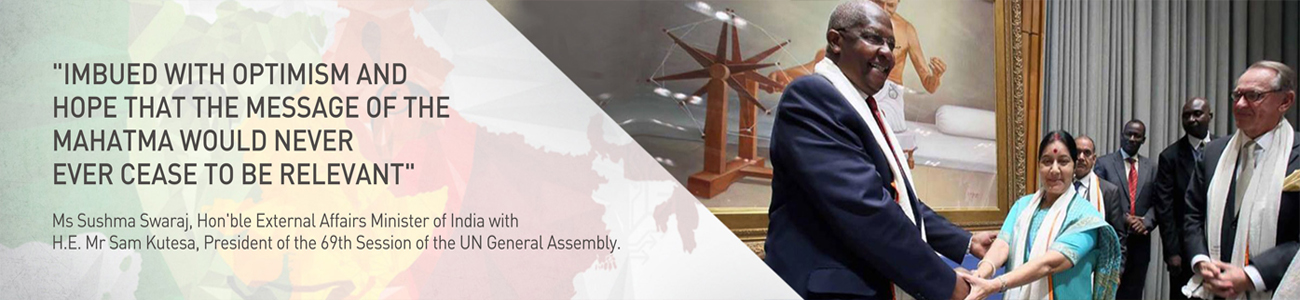
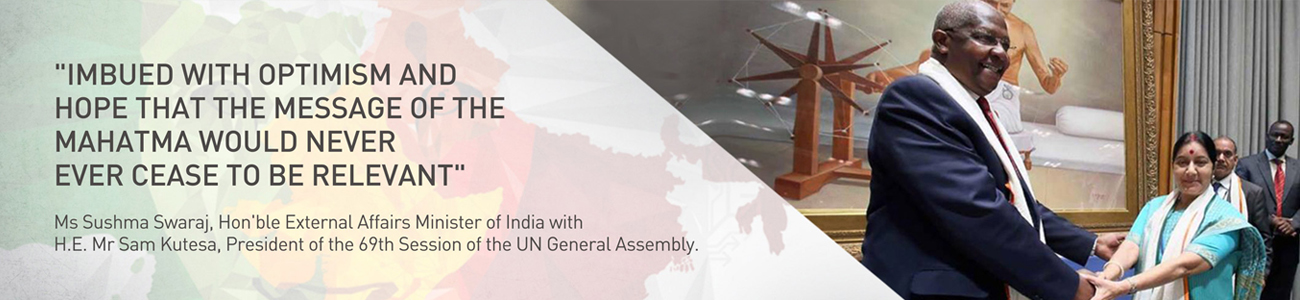
12-9-20151:15
updates

diff --git a/index.html b/index.html
@@ -172,9 +172,9 @@
    <div data-role="content">
 
  <!-- <div id="dvAboutUs" class="about_profile">-->
-
+ <div class="slider-iafs">
   <div id="slider1_container" style="position: relative; margin:18px auto;
-        top: 0px; left: 0px; width: 1300px; height: 300px; max-height:300px; overflow: hidden;">
+        top: 0px; left: 0px; width: 1300px; height:300px; max-height:360px; overflow: hidden;">
         <!-- Loading Screen -->
         <div u="loading" style="position: absolute; top: 0px; left: 0px;">
             <div style="filter: alpha(opacity=70); opacity: 0.7; position: absolute; display: block;
@@ -207,82 +207,8 @@
                 
             </div>
         </div>
-                
-        <!--#region Bullet Navigator Skin Begin -->
-        <!-- Help: http://www.jssor.com/development/slider-with-bullet-navigator-jquery.html -->
-        <style>
-            /* jssor slider bullet navigator skin 21 css */
-            /*
-            .jssorb21 div           (normal)
-            .jssorb21 div:hover     (normal mouseover)
-            .jssorb21 .av           (active)
-            .jssorb21 .av:hover     (active mouseover)
-            .jssorb21 .dn           (mousedown)
-            */
-            .jssorb21 {
-                position: absolute;
-            }
-            .jssorb21 div, .jssorb21 div:hover, .jssorb21 .av {
-                position: absolute;
-                /* size of bullet elment */
-                width: 19px;
-                height: 19px;
-                text-align: center;
-                line-height: 19px;
-                color: white;
-                font-size: 12px;
-                background: url(b21.png) no-repeat;
-                overflow: hidden;
-                cursor: pointer;
-            }
-            .jssorb21 div { background-position: -5px -5px; }
-            .jssorb21 div:hover, .jssorb21 .av:hover { background-position: -35px -5px; }
-            .jssorb21 .av { background-position: -65px -5px; }
-            .jssorb21 .dn, .jssorb21 .dn:hover { background-position: -95px -5px; }
-        </style>
-        <!-- bullet navigator container -->
-        <div u="navigator" class="jssorb21" style="bottom: 26px; right: 6px;">
-            <!-- bullet navigator item prototype -->
-            <div u="prototype"></div>
-        </div>
-        <!--#endregion Bullet Navigator Skin End -->
-        
-        <!--#region Arrow Navigator Skin Begin -->
-        <!-- Help: http://www.jssor.com/development/slider-with-arrow-navigator-jquery.html -->
-        <style>
-            /* jssor slider arrow navigator skin 21 css */
-            /*
-            .jssora21l                  (normal)
-            .jssora21r                  (normal)
-            .jssora21l:hover            (normal mouseover)
-            .jssora21r:hover            (normal mouseover)
-            .jssora21l.jssora21ldn      (mousedown)
-            .jssora21r.jssora21rdn      (mousedown)
-            */
-            .jssora21l, .jssora21r {
-                display: block;
-                position: absolute;
-                /* size of arrow element */
-                width: 55px;
-                height: 55px;
-                cursor: pointer;
-                background: url(a21.png) center center no-repeat;
-                overflow: hidden;
-            }
-            .jssora21l { background-position: -3px -33px; }
-            .jssora21r { background-position: -63px -33px; }
-            .jssora21l:hover { background-position: -123px -33px; }
-            .jssora21r:hover { background-position: -183px -33px; }
-            .jssora21l.jssora21ldn { background-position: -243px -33px; }
-            .jssora21r.jssora21rdn { background-position: -303px -33px; }
-        </style>
-        <!-- Arrow Left -->
-        <span u="arrowleft" class="jssora21l" style="top: 123px; left: 8px;">
-        </span>
-        <!-- Arrow Right -->
-        <span u="arrowright" class="jssora21r" style="top: 123px; right: 8px;">
-        </span>
-        <!--#endregion Arrow Navigator Skin End -->
+                </div>
+       
        
     </div>
 

diff --git a/css/style.css b/css/style.css
@@ -853,6 +853,15 @@ color: #FFFFFF;
 	font-size:12px;
 
 }
+
+.slider-iafs
+{
+	margin-top:35px;
+	width:100%;
+	height:350px;
+
+	
+}
 }
 
 @media (max-width:745px){
@@ -994,6 +1003,14 @@ color: #FFFFFF;
   float: left;
   
 }	
+.slider-iafs
+{
+	margin-top:40px;
+	width:100%;
+	height:350px;
+
+	
+}
 }
 
 
@@ -2350,4 +2367,15 @@ height:50px !important;
     border-bottom: 3px solid #f9c400;
  
 	  transition: all 0.6s ease 0s;
+}
+
+
+.slider-iafs
+{
+	margin-top:24px auto 0px auto;
+	padding:0px 0px 0px 0px;
+	width:100%;
+	height:350px;
+
+	
 }
